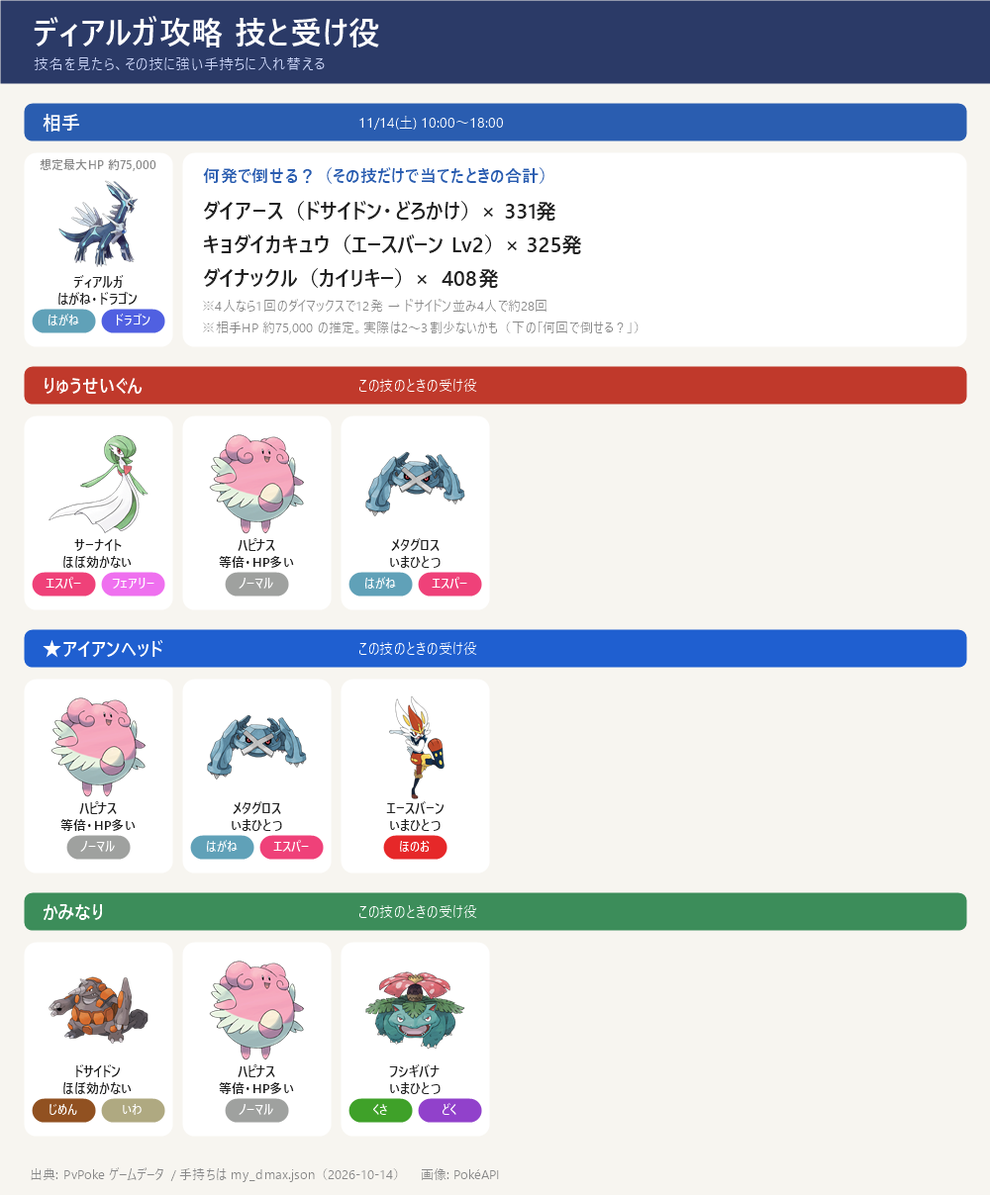
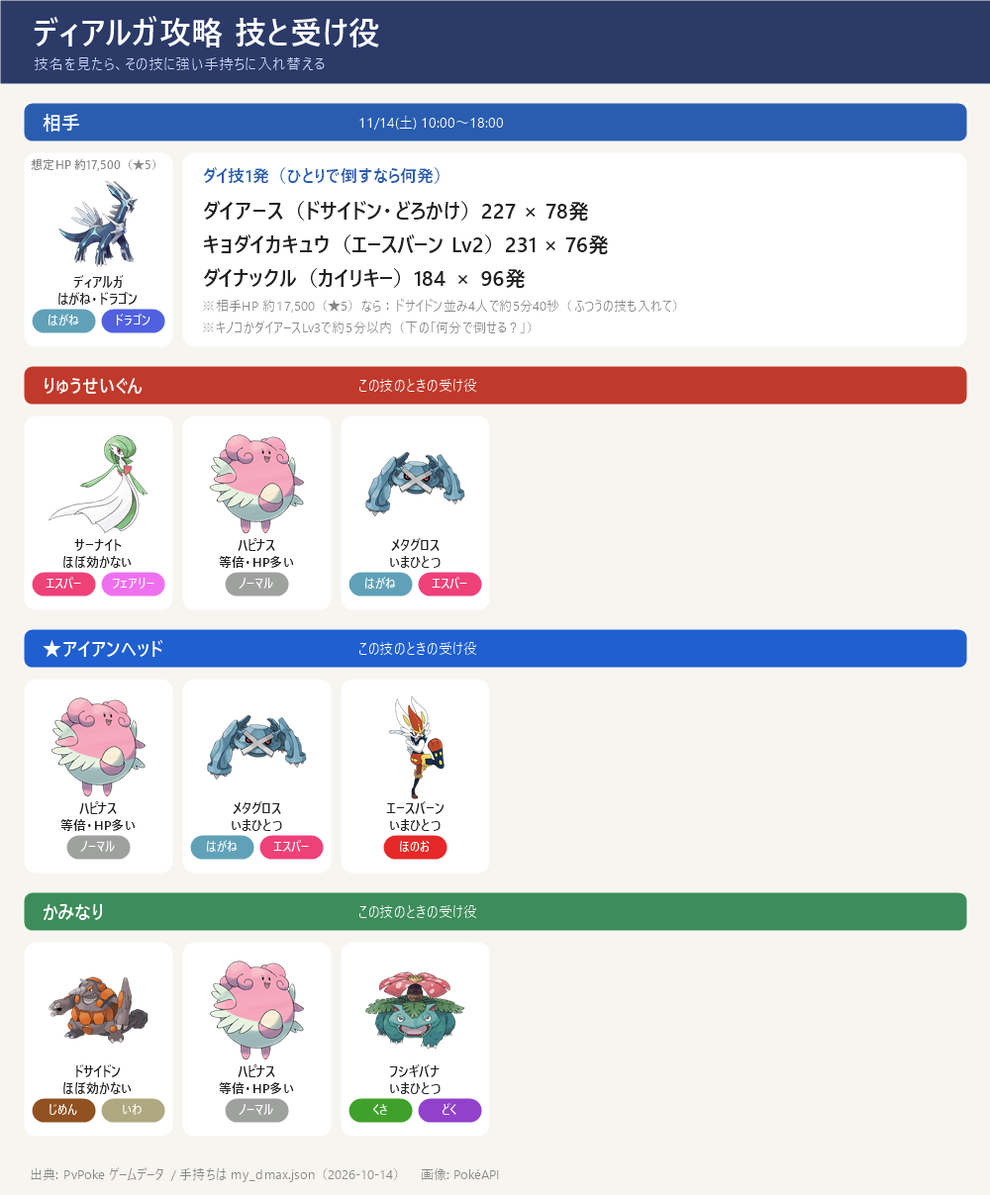
話題ページ dmax-dialga

Changed region(s): [[0.217, 0.1225, 0.651, 0.2757], [0.031, 0.1225, 0.155, 0.1531]]

diff --git a/topics/dmax-dialga/index.html b/topics/dmax-dialga/index.html
@@ -8,4 +8,4 @@ ul{padding-left:1.2em;margin:6px 0}li{margin:4px 0}li.s{list-style:none;margin-l
 .sub{color:var(--muted);margin:0}.src{color:var(--muted);font-size:13px;margin-top:30px}nav a{display:inline-block;margin:4px 8px 0 0}
 details{margin:10px 0}summary{cursor:pointer;color:var(--muted)}
 .nest{background:var(--card);border-left:6px solid #2E7D6B;padding:8px 12px;border-radius:6px;margin:12px 0}
-</style></head><body><header><h1>ダイマックス ディアルガ 攻略（11/14 土）</h1><nav><a href='../../'>← 一覧</a></nav></header><main><ul><li><b>GOワイルドエリア：グローバル 11/14(土) 10:00～18:00</b>。ダイマックス ディアルガ（<b>はがね・ドラゴン</b>）</li><li><span style='font-weight:bold;color:#2A5DB0'>弱点：じめん・かくとう（2倍）</span>。攻撃役はカイリキー・ドサイドン（どろかけ）・ドリュウズ（入手できたら）</li><li><span style='font-weight:bold;color:#1F5FD0'>ねらい目の技：アイアンヘッド（威力72）</span>。いちばん危ないのは <span style='font-weight:bold;color:#C0392B'>りゅうせいぐん（180）</span></li></ul><h2 style='border-color:#2A5DB0'>技カード</h2><a href='pokego_extra0.png'><img src='pokego_extra0.png' alt='技カード' loading=lazy></a><ul></ul><h2 style='border-color:#2A5DB0'>スペシャルアタック候補とねらい目</h2><a href='pokego_extra1.png'><img src='pokego_extra1.png' alt='スペシャルアタック候補とねらい目' loading=lazy></a><ul><li><b>りゅうせいぐん</b>（ドラゴン）威力 <b>180</b> <span style='font-weight:bold;color:#C0392B'>← いちばん危ない</span></li><li><span style='font-weight:bold;color:#1F5FD0'>★ <b>アイアンヘッド</b>（はがね）威力 <b>72</b> ← ねらい目（いちばん弱い）</span></li><li><b>かみなり</b>（でんき）威力 <b>100</b></li><li><span style='color:#888888'>「ときのほうこう」はオリジンフォルムだけの技なので、ダイマックス版は使わない見込み。通常技はドラゴンブレス／メタルクロー</span></li><li>技は選べない。<b>最初の大技の名前を見て</b>、受け役を合わせる</li></ul><h2 style='border-color:#5B4B8A'>手持ちが受けるダメージ</h2><ul><li><b>ハピナス</b>：りゅうせいぐん 180 ／ アイアンヘッド 72 ／ かみなり 100</li><li><b>メタグロス</b>：<span style='font-weight:bold;color:#1F5FD0'>りゅうせいぐん 112（いまひとつ）</span> ／ <span style='font-weight:bold;color:#1F5FD0'>アイアンヘッド 45（いまひとつ）</span> ／ かみなり 100</li><li><b>ドサイドン</b>：りゅうせいぐん 180 ／ <span style='font-weight:bold;color:#C0392B'>アイアンヘッド 115（弱点）</span> ／ <span style='font-weight:bold;color:#1F5FD0'>かみなり 39（ほぼ効かない）</span></li><li><b>サーナイト</b>：<span style='font-weight:bold;color:#1F5FD0'>りゅうせいぐん 70（ほぼ効かない）</span> ／ <span style='font-weight:bold;color:#C0392B'>アイアンヘッド 115（弱点）</span> ／ かみなり 100</li><li><b>シャワーズ</b>（預け中・CP未確認）：りゅうせいぐん 180 ／ <span style='font-weight:bold;color:#1F5FD0'>アイアンヘッド 45（いまひとつ）</span> ／ <span style='font-weight:bold;color:#C0392B'>かみなり 160（弱点）</span></li><li><b>フシギバナ</b>：りゅうせいぐん 180 ／ アイアンヘッド 72 ／ <span style='font-weight:bold;color:#1F5FD0'>かみなり 62（いまひとつ）</span></li><li><b>エースバーン</b>：りゅうせいぐん 180 ／ <span style='font-weight:bold;color:#1F5FD0'>アイアンヘッド 45（いまひとつ）</span> ／ かみなり 100</li><li><b>カイリキー</b>：りゅうせいぐん 180 ／ アイアンヘッド 72 ／ かみなり 100</li><li><b>ゲンガー</b>：りゅうせいぐん 180 ／ アイアンヘッド 72 ／ かみなり 100</li><li><b>インテレオン</b>：りゅうせいぐん 180 ／ <span style='font-weight:bold;color:#1F5FD0'>アイアンヘッド 45（いまひとつ）</span> ／ <span style='font-weight:bold;color:#C0392B'>かみなり 160（弱点）</span></li><li><span style='color:#888888'>数字＝技の威力 × 相性（ボスと同じタイプの技は1.2倍）。並びは受けやすい順（防御とHPも計算に入れた）。ハピナスは相性が等倍でもHPがとても多いので上に来る</span></li></ul><h2 style='border-color:#C0392B'>何回で倒せる？（ダイマックス技の回数を逆算）</h2><ul><li><span style='color:#888888'>前提：相手のHP <b>約75,000</b>（Dittobase の推定値。公式の数字は未発表）、相手の防御の補正 0.85（Pokebase の初期値）。この計算で Lv40・100%のカイリキーが1発345になり、Dittobase の数字と一致。個体値は15/15/15として、CPからレベルを逆算。キノコ（2倍）・応援・相手の強化は入れていない</span></li><li><b>1発のダメージと、ひとりで倒すのに要る回数</b>（Lv1 → Lv3 にしたとき）</li><li><b>ドサイドン（どろかけ → ダイアース）</b>：1発 <b>227</b> → 331発 ／ Lv3：318 → 236発</li><li><b>エースバーン（キョダイ・Lv2）</b>：1発 <b>231</b> → 325発 ／ Lv3：260 → 289発（相性は等倍だが、キョダイ技は元の威力が高い）</li><li><b>カイリキー（CP1698）</b>：1発 <b>184</b> → 408発 ／ Lv3：257 → 292発</li><li><span style='color:#888888'>メタグロス（れんぞくぎり）：1発 83 → 攻撃には使わない。参考：ドリュウズ Lv40・100% は 267（Lv3：374）、カイリキー Lv40・100% は 246（Lv3：345）</span></li><li><b>ダイマックス1回 ＝ 1人3発</b>。4人なら1回で12発</li><li><b>4人全員がドサイドン並み（約230）なら</b>：1回で約2,750 → <b>ダイマックス約28回</b>。全員 Lv3（約320）なら約3,800 → <b>約20回</b></li><li><b>近道</b>：①ダイアースを Lv2～3 に（1発が約1.3～1.4倍）②カイリキーを強化（CP1698 → 2500前後で1発 約220）③マックスキノコ（2倍）</li><li><span style='font-weight:bold;color:#C0392B'>一度に戦えるのは4人まで</span>（公式ヘルプ）。ポケらくは「最低3人」→ <b>4人そろえるのが前提</b>（キャンプファイア・現地で集める）</li><li><span style='color:#888888'>見直し（10/14）：ボスのHPはどのサイトにも未掲載。ポケらくの1発のダメージ（PL40・攻撃15・Lv1でドサイドン345）は上の計算の約1.36倍 → <b>上の回数は多めに出ている可能性</b>。実際は2～3割少ないかもしれない</span></li></ul><h2 style='border-color:#3C8D5A'>戦い方のコツ</h2><ul><li><span style='font-weight:bold;color:#C0392B'>出陣させる3体：ドサイドン・エースバーン・ハピナス</span>（ドサイドン＝攻撃・かみなりの盾／エースバーン＝攻撃／ハピナス＝最初の盾・回復）。<span style='color:#888888'>マックスバトルに連れて行けるのは1人3体まで。下の入れ替えはこの3体の中で行う</span></li><li><span style='font-weight:bold;color:#1F5FD0'>最初の受け役はハピナス</span>：ボスの技（狙い撃ち・全体攻撃）は<b>1回使われるまで分からない</b>（ほかの人に当たっても技名は出る）→ 技名が分かるまでは<b>ハピナス</b>で受ける（どの技も弱点にならず、HP が多い）。分かったら下のとおり入れ替える</li><li class=s><b>りゅうせいぐん</b>なら → 盾はそのまま<b>ハピナス</b>（等倍）。攻撃は<b>エースバーン・ドサイドン</b>でいく</li><li class=s><b>アイアンヘッド</b>なら → 盾はそのまま<b>ハピナス</b>（等倍）。攻撃は<b>エースバーン</b>でいく（ドサイドンは「アイアンヘッド」が弱点なので、ダイマックス以外は下げておく）</li><li class=s><b>かみなり</b>なら → 盾を<b>ドサイドン</b>に替える（ほぼ効かない）。攻撃は<b>エースバーン・ドサイドン</b>でいく</li><li><b>野良では抜けずに受け役を入れ替える</b>：ボスの技（狙い撃ち1つ＋全体攻撃1つ）は挑戦ごとに抽選されるが、途中で抜けると残りの3人が不利になる → 技名を見て、その技に強い手持ちに替える。<b>入り直し</b>（MP は勝ったときだけ減る）は<b>知り合いと組んで、全員で決めたときだけ</b></li><li><b>タンクは通常技だけ連打</b>：スペシャル技よりメーターが早くたまる。0.5秒の通常技（ハピナスのはたく・メタグロスのれんぞくぎり）が向く</li><li><b>タンクは2体</b>：1体目で全体攻撃、2体目で単体攻撃を受ける（ドクターポケゴーゴーのおすすめ）</li><li><b>エネルギーはスワイプで取る</b>（タップではない）。アイコン1個でメーター <b>+10%</b></li><li><b>「狙われている」アイコンが出たら左右にスワイプして避ける</b>。<span style='color:#C0392B'>全体攻撃は避けられない</span></li><li><b>ダイマックス中は「盾 → 回復 → 攻撃」の順で決める</b>：まずダイウォール（3回まで重ねがけ）、HPが減っていればダイリカバリー、それ以外はダイ攻撃</li><li><b>ダイリカバリーは同じ4人グループの「場に出ている」4体だけ回復</b>。<span style='color:#C0392B'>控えのポケモンは回復しない</span></li><li><b>回復量は使ったポケモンの最大HPが基準</b>：Lv1 8%・Lv2 12%・Lv3 16% を4体に同じ量 → ハピナス（HP397）で Lv1 は <b>31</b>、Lv2 は <b>47</b>。<b>Lv2 に上げるのが先</b></li><li><b>★5 は6分40秒で時間切れ</b>。<span style='color:#C0392B'>途中からボスの攻撃が強くなる</span> → ダイマックスは出し惜しみしない</li><li><b>倒れても応援</b>：応援1回で仲間のメーター <b>+20%</b>。速く押しすぎると数えられないので、少し間をあけて押す</li><li><b>勝利の報酬</b>：ほしのすな15,000・XP15,000・ふしぎなアメXL1・アメ10・アメXL1・プレミアボール10（現地参加はXP＋2,500・ボール＋2）。色違いの可能性あり</li></ul><h2 style='border-color:#2B3A67'>MP（マックス粒子）の計画</h2><ul><li><b>1戦 800MP</b>（ポケらく：負けたら減らない）。<b>持てる上限は1,500</b>、1日に集められるのは<b>ふだん800 → 当日は1,600（チケット$11.99なら3,200）</b></li><li><b>11/14（ディアルガ）</b>：前の晩に1,500持っていれば ＋当日1,600 ＝ 3,100 → <b>3戦</b>（チケットありなら4,700 → 5戦）</li><li><b>11/15（パルキア）</b>：14日に使い切ると、15日は当日の1,600だけ → <b>2戦</b>。両日とも戦うなら、14日に700ほど残すと15日も3戦</li><li><b>準備の順番</b>：11/11ごろまではMPをマックス技のレベル上げ（ダイアース・ダイウォール）に使う → <b>11/12・13は使わずにためて1,500に</b>（1日800なので2日で満タン）</li><li><span style='color:#888888'>リサーチ・コード・粒子パックで入るMPは1日の上限に数えない</span></li></ul><h2 style='border-color:#D98E04'>並びと動き方</h2><ul><li><b>メタグロス</b>：りゅうせいぐん・アイアンヘッドをどちらも<b>いまひとつ</b>で受けられて、弱点の技がない → ダイウォール役にいちばん向く</li><li><b>ハピナス</b>：相性は等倍でもHPが多く、どの技でも受けられる → ダイリカバリーで回復しながら受ける</li><li><b>ドサイドン</b>：かみなりは<b>ほぼ効かない</b>が、アイアンヘッドは<b>弱点</b> → <b>かみなりのときだけ前に</b>。それ以外は攻撃に専念</li><li><b>サーナイト</b>：りゅうせいぐんは<b>ほぼ効かない</b>（フェアリー）が、アイアンヘッドが弱点 → 技名がりゅうせいぐんと分かってから出す</li><li><span style='font-weight:bold;color:#C0392B'>出さない</span>：インテレオン・シャワーズ（かみなりが弱点）</li></ul><p class=src>出典: タイプ・技・威力: PvPoke ゲームデータ・PokéAPI(pogoapi) ／ 人数: 公式ヘルプ ／ MP・報酬・コツ: ポケらく・ゲームウィズ・ドクターポケゴーゴー・公式サイト ／ 手持ち: my_dmax.json ／ 全体の作戦: 「ワイルドエリア2026 ダイマックス攻略」ページ<br>画像: PokéAPI ／ 更新 2026-10-18</p></main></body></html>
+</style></head><body><header><h1>ダイマックス ディアルガ 攻略（11/14 土）</h1><nav><a href='../../'>← 一覧</a></nav></header><main><ul><li><b>GOワイルドエリア：グローバル 11/14(土) 10:00～18:00</b>。ダイマックス ディアルガ（<b>はがね・ドラゴン</b>）</li><li><span style='font-weight:bold;color:#2A5DB0'>弱点：じめん・かくとう（2倍）</span>。攻撃役はカイリキー・ドサイドン（どろかけ）・ドリュウズ（入手できたら）</li><li><span style='font-weight:bold;color:#1F5FD0'>ねらい目の技：アイアンヘッド（威力72）</span>。いちばん危ないのは <span style='font-weight:bold;color:#C0392B'>りゅうせいぐん（180）</span></li></ul><h2 style='border-color:#2A5DB0'>技カード</h2><a href='pokego_extra0.png'><img src='pokego_extra0.png' alt='技カード' loading=lazy></a><ul></ul><h2 style='border-color:#2A5DB0'>スペシャルアタック候補とねらい目</h2><a href='pokego_extra1.png'><img src='pokego_extra1.png' alt='スペシャルアタック候補とねらい目' loading=lazy></a><ul><li><b>りゅうせいぐん</b>（ドラゴン）威力 <b>180</b> <span style='font-weight:bold;color:#C0392B'>← いちばん危ない</span></li><li><span style='font-weight:bold;color:#1F5FD0'>★ <b>アイアンヘッド</b>（はがね）威力 <b>72</b> ← ねらい目（いちばん弱い）</span></li><li><b>かみなり</b>（でんき）威力 <b>100</b></li><li><span style='color:#888888'>「ときのほうこう」はオリジンフォルムだけの技なので、ダイマックス版は使わない見込み。通常技はドラゴンブレス／メタルクロー</span></li><li>技は選べない。<b>最初の大技の名前を見て</b>、受け役を合わせる</li></ul><h2 style='border-color:#5B4B8A'>手持ちが受けるダメージ</h2><ul><li><b>ハピナス</b>：りゅうせいぐん 180 ／ アイアンヘッド 72 ／ かみなり 100</li><li><b>メタグロス</b>：<span style='font-weight:bold;color:#1F5FD0'>りゅうせいぐん 112（いまひとつ）</span> ／ <span style='font-weight:bold;color:#1F5FD0'>アイアンヘッド 45（いまひとつ）</span> ／ かみなり 100</li><li><b>ドサイドン</b>：りゅうせいぐん 180 ／ <span style='font-weight:bold;color:#C0392B'>アイアンヘッド 115（弱点）</span> ／ <span style='font-weight:bold;color:#1F5FD0'>かみなり 39（ほぼ効かない）</span></li><li><b>サーナイト</b>：<span style='font-weight:bold;color:#1F5FD0'>りゅうせいぐん 70（ほぼ効かない）</span> ／ <span style='font-weight:bold;color:#C0392B'>アイアンヘッド 115（弱点）</span> ／ かみなり 100</li><li><b>シャワーズ</b>（預け中・CP未確認）：りゅうせいぐん 180 ／ <span style='font-weight:bold;color:#1F5FD0'>アイアンヘッド 45（いまひとつ）</span> ／ <span style='font-weight:bold;color:#C0392B'>かみなり 160（弱点）</span></li><li><b>フシギバナ</b>：りゅうせいぐん 180 ／ アイアンヘッド 72 ／ <span style='font-weight:bold;color:#1F5FD0'>かみなり 62（いまひとつ）</span></li><li><b>エースバーン</b>：りゅうせいぐん 180 ／ <span style='font-weight:bold;color:#1F5FD0'>アイアンヘッド 45（いまひとつ）</span> ／ かみなり 100</li><li><b>カイリキー</b>：りゅうせいぐん 180 ／ アイアンヘッド 72 ／ かみなり 100</li><li><b>ゲンガー</b>：りゅうせいぐん 180 ／ アイアンヘッド 72 ／ かみなり 100</li><li><b>インテレオン</b>：りゅうせいぐん 180 ／ <span style='font-weight:bold;color:#1F5FD0'>アイアンヘッド 45（いまひとつ）</span> ／ <span style='font-weight:bold;color:#C0392B'>かみなり 160（弱点）</span></li><li><span style='color:#888888'>数字＝技の威力 × 相性（ボスと同じタイプの技は1.2倍）。並びは受けやすい順（防御とHPも計算に入れた）。ハピナスは相性が等倍でもHPがとても多いので上に来る</span></li></ul><h2 style='border-color:#C0392B'>何分で倒せる？（5分の壁）</h2><ul><li><span style='color:#888888'>前提：相手の防御の補正 0.85（Pokebase の初期値）。個体値は15/15/15として CP からレベルを逆算。ふつうの技は<b>5分のうち7割の時間打てる</b>とした（ボスの攻撃・交代で止まる分）。ゲージ技・キノコ・応援は入れていない（＝少し控えめ）</span></li><li><span style='font-weight:bold;color:#C0392B'>見直し（10/19）：相手のHPを 75,000 → 17,500 に変更</span>。17,500 は 9db の「★ごとのボスHP」表の★5の値（★3 10,000・★4 20,000・★6 90,000）。ディアルガ・パルキアは★5（ポケらく・Serebii の予想）で、<b>4人まで</b>。前の 75,000 は Dittobase の推定で★6（キョダイ）並み → 4人では5分で約2割しか削れず、合わない。本当の値は 11/6 の仙台のあとで分かる</li><li><b>時間の壁は約5分</b>：約4分30秒で「暴走寸前」、約5分～5分30秒で暴走（ボスの攻撃が約3倍）→ <b>5分以内に倒すのが目標</b></li><li><b>ダイマックスは5分で1人約2回</b>：メーターは<b>光る玉1個 +10%（15秒おき）</b>でほぼたまる。ふつうの技のダメージでたまる分は5分で2～3割だけ（9db の式：ダメージ ÷ (ボスHP×0.005) %）</li><li><b>ダイ技 1発のダメージ</b>（Lv1 → Lv3）：<b>ドサイドン（ダイアース）227 → 318</b> ／ エースバーン（キョダイカキュウ Lv2）231 → Lv3 260 ／ カイリキー（ダイナックル）184 → 257</li><li><b>ふつうの技（5分でどれだけ削るか）</b>：<b>ドサイドン どろかけ</b> 1発18・1.5秒 → <b>約2,500</b> ／ カイリキー カウンター 1発10・1.0秒 → 約2,100 ／ エースバーン ほのおのうず 1発8 → 約1,700 ／ ハピナス はたく 1発2 → 約840</li><li><b>4人全員がドサイドン並みなら（5分）</b>：ふつうの技 約10,000 ＋ ダイ技（1人2回×3発×227）約5,400 ＝ <b>約15,500</b> → 17,500 まで<b>約5分40秒</b>＝<span style='font-weight:bold;color:#C0392B'>暴走ぎりぎり</span></li><li><b>ふつうの技のほうが削る量が多い</b> → ダイマックス以外の時間も<b>通常技を休まず連打</b>。攻撃役は速い通常技（どろかけ・カウンター）を持つものを前に</li><li><b>5分を切るには</b>：①ダイアースを <b>Lv3</b>（→ 約5,000秒ではなく<b>約5分</b>）②<b>マックスキノコ</b>（ダイ技2倍 → <b>約4分10秒</b>）③ゲージ技も撃つ ④倒れた人は応援（+20%）</li><li><span style='color:#888888'>参考：相手HPが 75,000 だった場合は、4人で5分に削れるのは約2割。そのときは暴走前に倒すのは無理なので、仙台（11/6）の結果を見て判断する</span></li><li><span style='font-weight:bold;color:#C0392B'>一度に戦えるのは4人まで</span>（公式ヘルプ・ポケらく）。40人で挑めるのはキョダイマックス（★6）だけ → <b>4人そろえるのが前提</b>（キャンプファイア・現地で集める）</li></ul><h2 style='border-color:#3C8D5A'>戦い方のコツ</h2><ul><li><span style='font-weight:bold;color:#C0392B'>出陣させる3体：ドサイドン・エースバーン・ハピナス</span>（ドサイドン＝攻撃・かみなりの盾／エースバーン＝攻撃／ハピナス＝最初の盾・回復）。<span style='color:#888888'>マックスバトルに連れて行けるのは1人3体まで。下の入れ替えはこの3体の中で行う</span></li><li><span style='font-weight:bold;color:#1F5FD0'>最初の受け役はハピナス</span>：ボスの技（狙い撃ち・全体攻撃）は<b>1回使われるまで分からない</b>（ほかの人に当たっても技名は出る）→ 技名が分かるまでは<b>ハピナス</b>で受ける（どの技も弱点にならず、HP が多い）。分かったら下のとおり入れ替える</li><li class=s><b>りゅうせいぐん</b>なら → 盾はそのまま<b>ハピナス</b>（等倍）。攻撃は<b>エースバーン・ドサイドン</b>でいく</li><li class=s><b>アイアンヘッド</b>なら → 盾はそのまま<b>ハピナス</b>（等倍）。攻撃は<b>エースバーン</b>でいく（ドサイドンは「アイアンヘッド」が弱点なので、ダイマックス以外は下げておく）</li><li class=s><b>かみなり</b>なら → 盾を<b>ドサイドン</b>に替える（ほぼ効かない）。攻撃は<b>エースバーン・ドサイドン</b>でいく</li><li><b>野良では抜けずに受け役を入れ替える</b>：ボスの技（狙い撃ち1つ＋全体攻撃1つ）は挑戦ごとに抽選されるが、途中で抜けると残りの3人が不利になる → 技名を見て、その技に強い手持ちに替える。<b>入り直し</b>（MP は勝ったときだけ減る）は<b>知り合いと組んで、全員で決めたときだけ</b></li><li><b>タンクは通常技だけ連打</b>：スペシャル技よりメーターが早くたまる。0.5秒の通常技（ハピナスのはたく・メタグロスのれんぞくぎり）が向く</li><li><b>タンクは2体</b>：1体目で全体攻撃、2体目で単体攻撃を受ける（ドクターポケゴーゴーのおすすめ）</li><li><b>エネルギーはスワイプで取る</b>（タップではない）。アイコン1個でメーター <b>+10%</b></li><li><b>「狙われている」アイコンが出たら左右にスワイプして避ける</b>。<span style='color:#C0392B'>全体攻撃は避けられない</span></li><li><b>ダイマックス中は「盾 → 回復 → 攻撃」の順で決める</b>：まずダイウォール（3回まで重ねがけ）、HPが減っていればダイリカバリー、それ以外はダイ攻撃</li><li><b>ダイリカバリーは同じ4人グループの「場に出ている」4体だけ回復</b>。<span style='color:#C0392B'>控えのポケモンは回復しない</span></li><li><b>回復量は使ったポケモンの最大HPが基準</b>：Lv1 8%・Lv2 12%・Lv3 16% を4体に同じ量 → ハピナス（HP397）で Lv1 は <b>31</b>、Lv2 は <b>47</b>。<b>Lv2 に上げるのが先</b></li><li><b>勝負は約5分</b>：開始 <b>約4分30秒</b>で「暴走寸前」と出て、<b>約5分～5分30秒</b>で暴走する（伝説★5はボスの攻撃が<b>約3倍</b>、★3は約9倍）。<span style='color:#C0392B'>暴走後はすぐ全滅しやすい</span> → 「暴走寸前」が出たら盾・回復はやめてダイ攻撃だけ。ダイマックスは出し惜しみしない（9db・Bulbapedia。決まった時間切れは無く、英語の Bulbapedia だけ約8分で打ち切りと書く）</li><li><b>倒れても応援</b>：応援1回で仲間のメーター <b>+20%</b>。速く押しすぎると数えられないので、少し間をあけて押す</li><li><b>勝利の報酬</b>：ほしのすな15,000・XP15,000・ふしぎなアメXL1・アメ10・アメXL1・プレミアボール10（現地参加はXP＋2,500・ボール＋2）。色違いの可能性あり</li></ul><h2 style='border-color:#2B3A67'>MP（マックス粒子）の計画</h2><ul><li><b>1戦 800MP</b>（ポケらく：負けたら減らない）。<b>持てる上限は1,500</b>、1日に集められるのは<b>ふだん800 → 当日は1,600（チケット$11.99なら3,200）</b></li><li><b>11/14（ディアルガ）</b>：前の晩に1,500持っていれば ＋当日1,600 ＝ 3,100 → <b>3戦</b>（チケットありなら4,700 → 5戦）</li><li><b>11/15（パルキア）</b>：14日に使い切ると、15日は当日の1,600だけ → <b>2戦</b>。両日とも戦うなら、14日に700ほど残すと15日も3戦</li><li><b>準備の順番</b>：11/11ごろまではMPをマックス技のレベル上げ（ダイアース・ダイウォール）に使う → <b>11/12・13は使わずにためて1,500に</b>（1日800なので2日で満タン）</li><li><span style='color:#888888'>リサーチ・コード・粒子パックで入るMPは1日の上限に数えない</span></li></ul><h2 style='border-color:#D98E04'>並びと動き方</h2><ul><li><b>メタグロス</b>：りゅうせいぐん・アイアンヘッドをどちらも<b>いまひとつ</b>で受けられて、弱点の技がない → ダイウォール役にいちばん向く</li><li><b>ハピナス</b>：相性は等倍でもHPが多く、どの技でも受けられる → ダイリカバリーで回復しながら受ける</li><li><b>ドサイドン</b>：かみなりは<b>ほぼ効かない</b>が、アイアンヘッドは<b>弱点</b> → <b>かみなりのときだけ前に</b>。それ以外は攻撃に専念</li><li><b>サーナイト</b>：りゅうせいぐんは<b>ほぼ効かない</b>（フェアリー）が、アイアンヘッドが弱点 → 技名がりゅうせいぐんと分かってから出す</li><li><span style='font-weight:bold;color:#C0392B'>出さない</span>：インテレオン・シャワーズ（かみなりが弱点）</li></ul><p class=src>出典: タイプ・技・威力: PvPoke ゲームデータ・PokéAPI(pogoapi) ／ 人数: 公式ヘルプ ／ MP・報酬・コツ: ポケらく・ゲームウィズ・ドクターポケゴーゴー・公式サイト ／ 手持ち: my_dmax.json ／ 全体の作戦: 「ワイルドエリア2026 ダイマックス攻略」ページ<br>画像: PokéAPI ／ 更新 2026-10-19</p></main></body></html>
